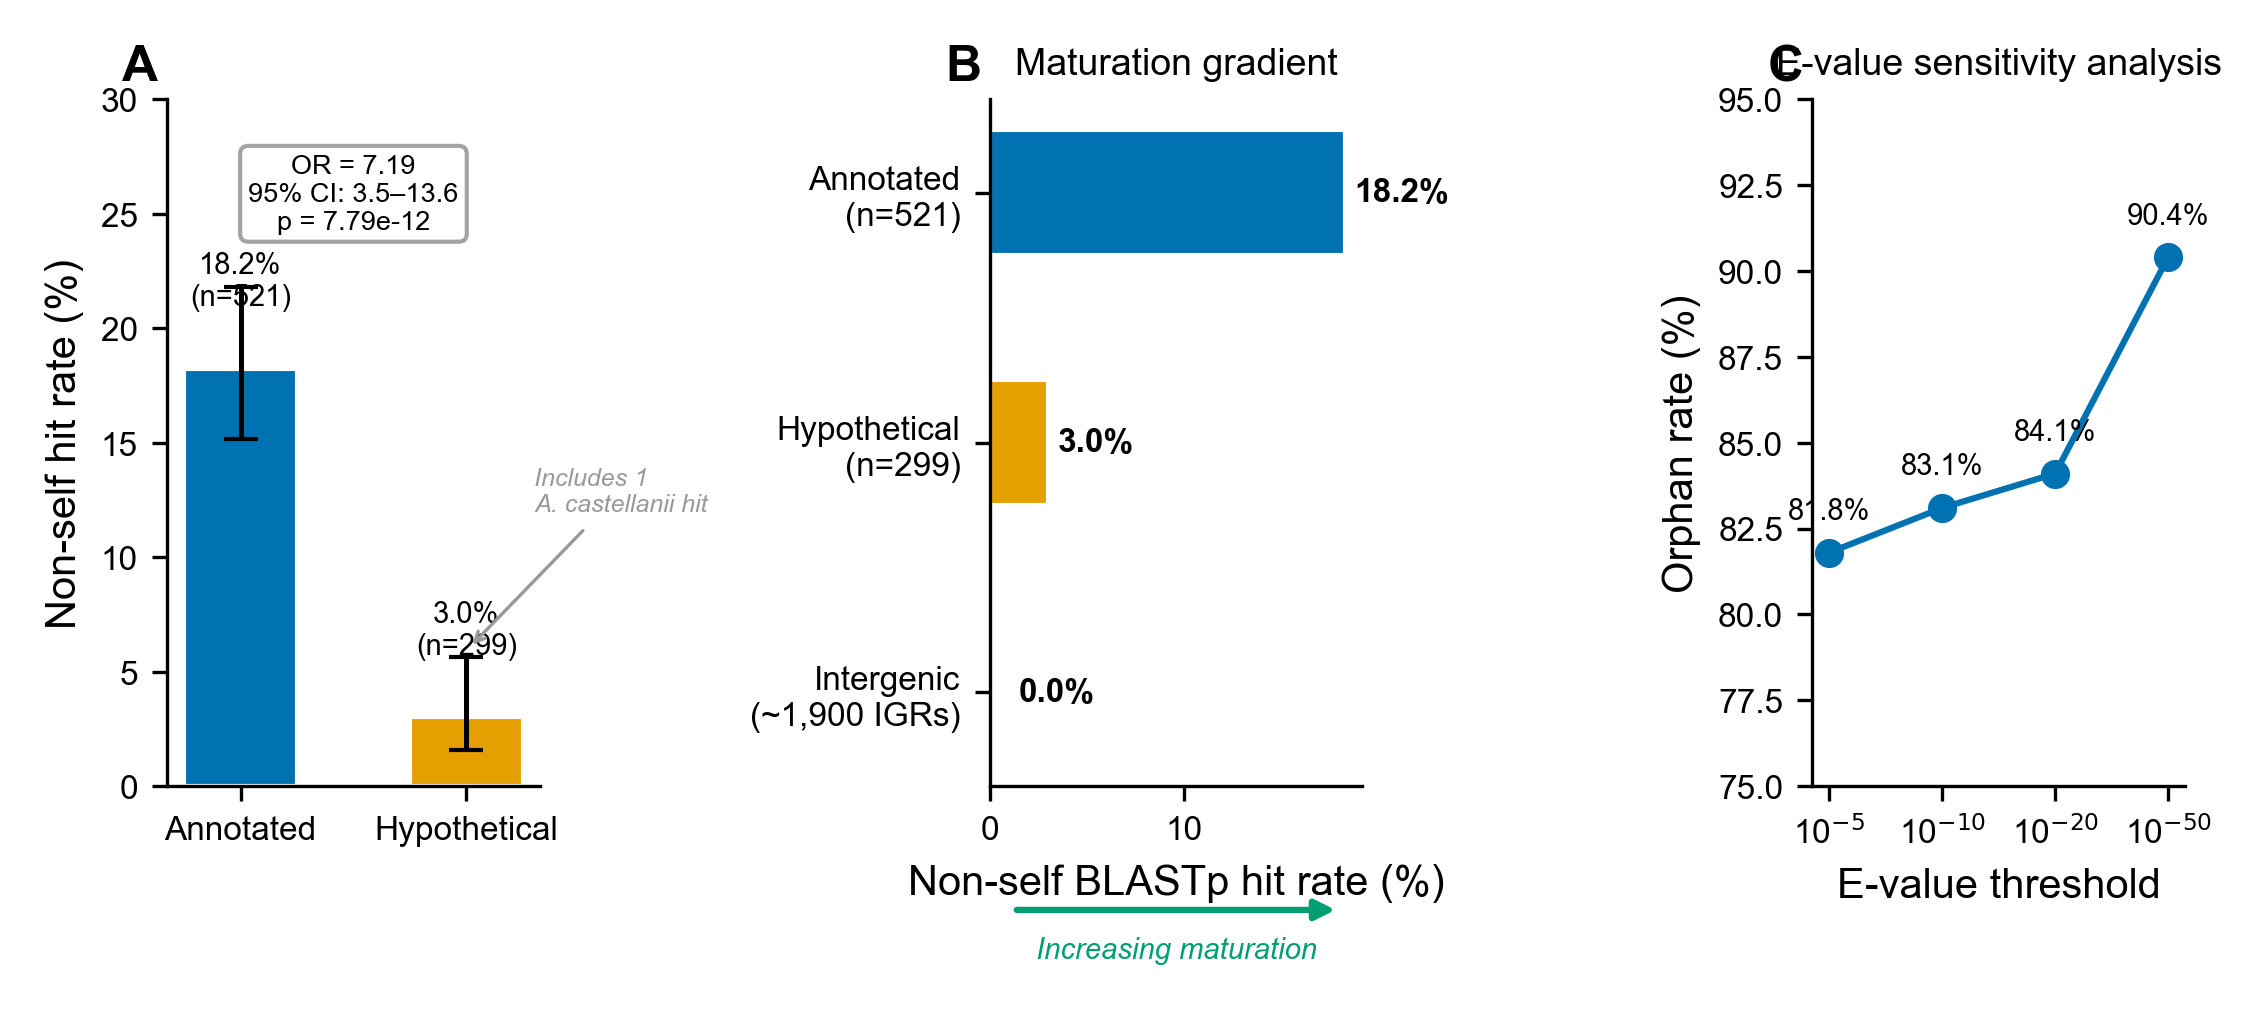
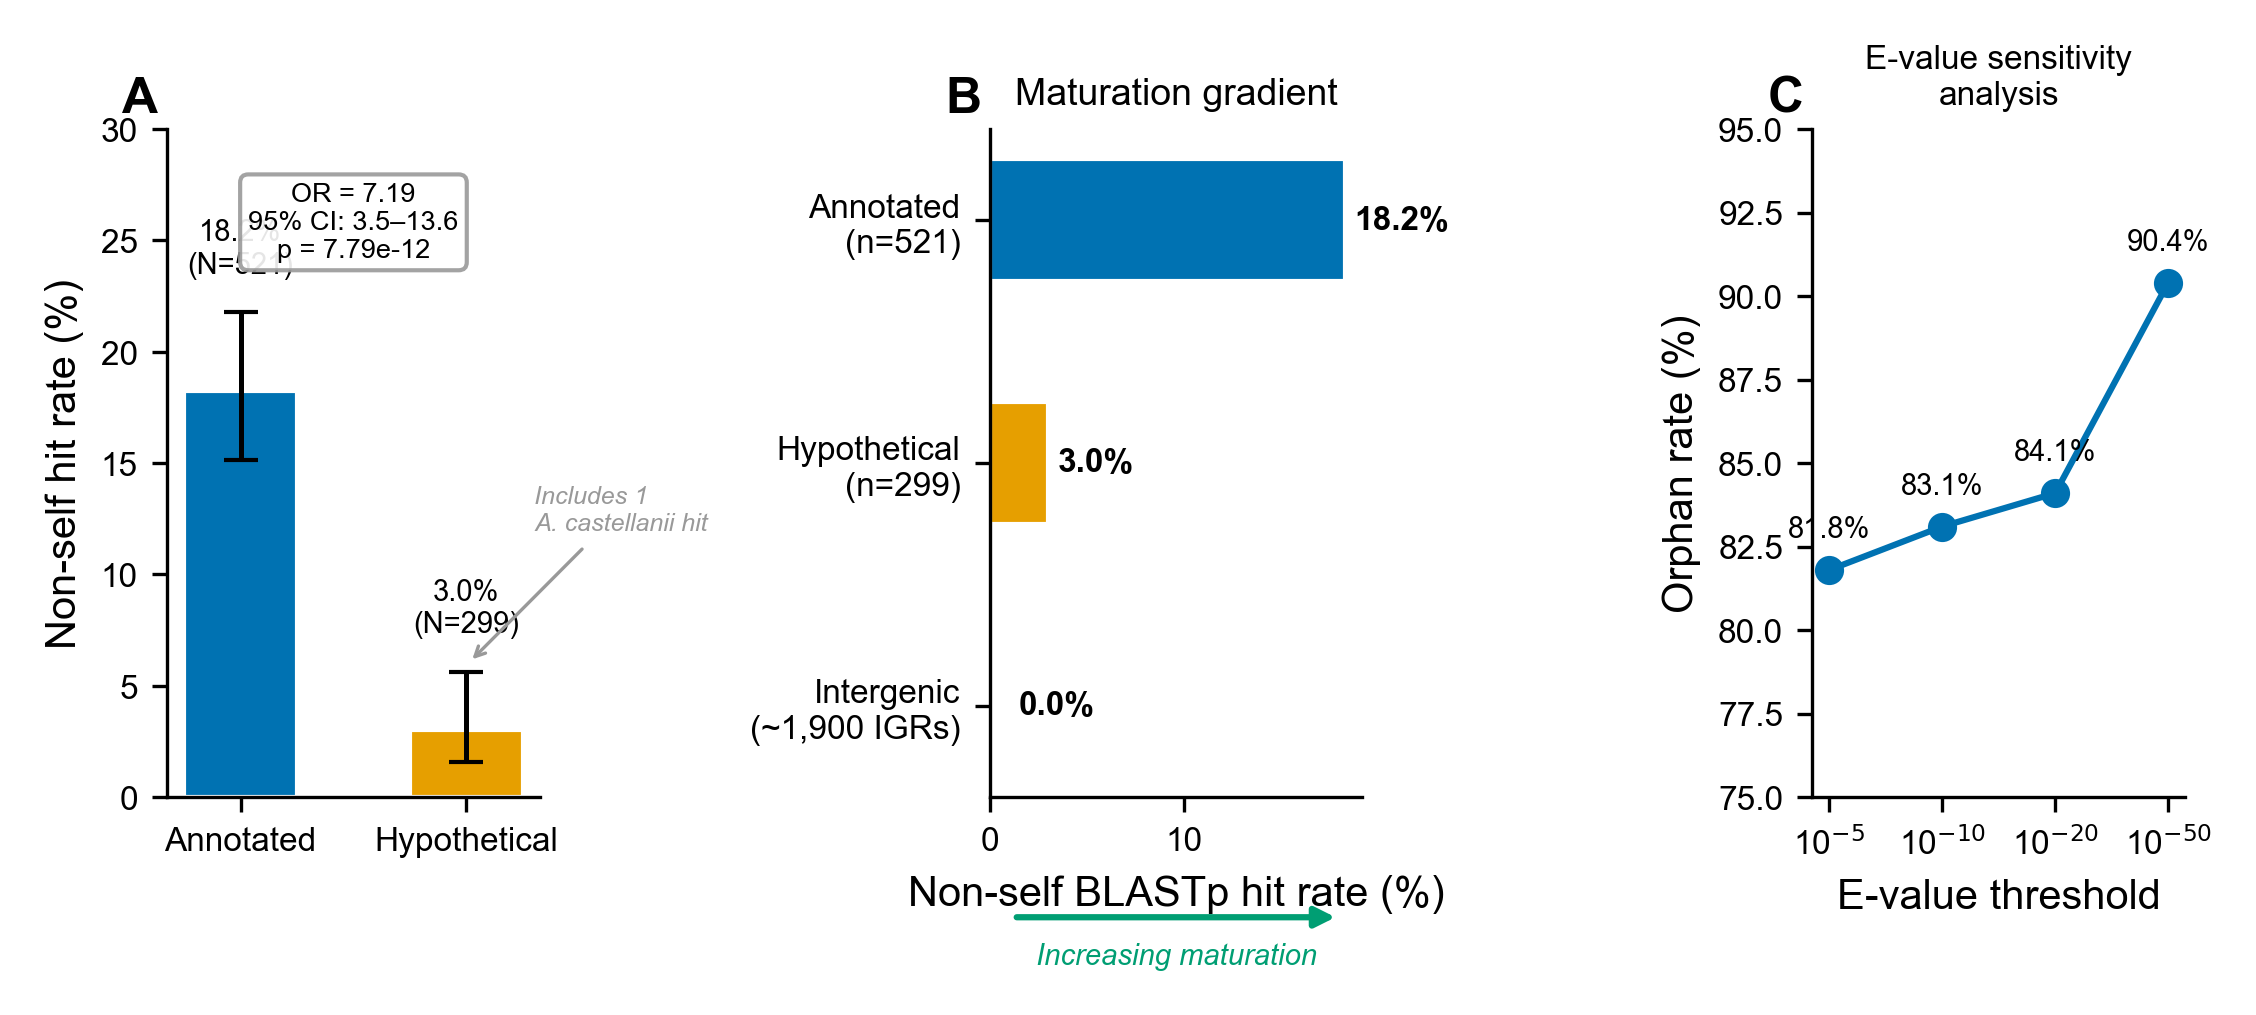
Final peer review fixes: references, affiliation, formatting, Figure 4
- Attribute 92.5% ORFan claim to Philippe et al. in Abstract
- Add author affiliation (Bradford Genomics, San Diego, CA, USA)
- Fix "connection failures" to "failed queries due to server timeouts"
- Add Moniruzzaman et al. 2020 (Nature) and Aylward et al. 2021 references
- Correct Moniruzzaman reference to endogenization paper (Nature 588:141-145)
- Remove all em-dashes from manuscript and supplementary materials
- Fix Figure 4 Panel A label overlap with error bar whiskers
- Fix Figure 4 Panel C title overlap with panel label
- Add technical walkthrough document for statisticians
- Add .docx submission files (manuscript, supplementary, cover letter)

diff --git a/scripts/generate_manuscript_figures.py b/scripts/generate_manuscript_figures.py
@@ -624,9 +624,10 @@ def figure4():
                   edgecolor="white", width=0.5,
                   yerr=[yerr_low, yerr_high],
                   capsize=4, error_kw=dict(lw=1.2, color="black"))
-    for bar, r, n in zip(bars, rates, ns):
-        ax.text(bar.get_x() + bar.get_width() / 2, bar.get_height() + 2.5,
-                f"{r:.1f}%\n(n={n})", ha="center", va="bottom", fontsize=7)
+    for bar, r, n, ye_hi in zip(bars, rates, ns, yerr_high):
+        label_y = bar.get_height() + ye_hi + 1.5
+        ax.text(bar.get_x() + bar.get_width() / 2, label_y,
+                f"{r:.1f}%\n(N={n})", ha="center", va="bottom", fontsize=7)
 
     ax.set_ylabel("Non-self hit rate (%)")
     ax.set_ylim(0, 30)
@@ -694,7 +695,7 @@ def figure4():
                        fontsize=8)
     ax.set_xlabel("E-value threshold")
     ax.set_ylabel("Orphan rate (%)")
-    ax.set_title("E-value sensitivity analysis", fontsize=9)
+    ax.set_title("E-value sensitivity\nanalysis", fontsize=8)
     ax.set_ylim(75, 95)
 
     fig.tight_layout()

diff --git a/docs/technical_walkthrough_for_statisticians.md b/docs/technical_walkthrough_for_statisticians.md
@@ -1,0 +1,275 @@
+# Technical Walkthrough: Pandoravirus de novo Gene Birth Analysis
+## For statistically sophisticated readers with limited genomics background
+
+**Eddie Bradford — Pandoravirus salinus GBE Submission, Draft 6**
+
+---
+
+## Orientation: What is this paper actually about?
+
+Before diving into methods, it helps to understand what we are trying to explain and why it is puzzling.
+
+**The organism.** *Pandoravirus salinus* is a giant virus — a virus with a genome so large (2.47 megabases, roughly half the size of a minimal bacterial genome) that it encodes ~1,430 proteins. Most viruses encode a few dozen. This one is an outlier.
+
+**The puzzle.** 92.5% of its proteins are "ORFans" — they have no detectable relatives anywhere in the known biological world. This is extraordinary. For comparison, even highly unusual bacteria typically have 80–90% of their genes with detectable homologs somewhere. Where did all these unique genes come from?
+
+**The proposed answer.** The leading hypothesis is *de novo gene birth*: the virus creates new genes from scratch, out of what was previously non-coding "junk" DNA in between existing genes. A stretch of random-looking intergenic sequence gains the properties of a functional gene over evolutionary time.
+
+**The mechanistic gap this paper addresses.** Even if you accept de novo gene birth as the answer, a puzzle remains: for a new gene to be useful, it needs to be *expressed* — the cell's machinery needs to be told "start reading here, stop reading there" (these signals are called promoters and terminators). How does a piece of junk DNA get expressed if it is far from any existing regulatory signal? This paper's central finding is that the answer is already everywhere: Pandoravirus maintains regulatory signals distributed throughout its entire non-coding genome, so any stretch of sequence that randomly develops coding potential is already sitting next to a promoter/terminator and can immediately be expressed.
+
+---
+
+## Biological vocabulary, translated for statisticians
+
+| Biology term | Statistical/analytical equivalent |
+|---|---|
+| **Gene** | A coded sequence that produces a protein; the "unit of analysis" |
+| **ORFan / orphan gene** | A gene with zero matches in external databases; a complete outlier in the homology space |
+| **Intergenic region (IGR)** | The sequence *between* genes — non-coding DNA, the substrate from which new genes emerge |
+| **Promoter / terminator** | Sequence signals that tell the cell where to start/stop reading a gene — like delimiters in a file |
+| **Codon** | A 3-letter DNA code word that specifies one amino acid; there are 64 codons but only 20 amino acids, so most amino acids are encoded by multiple synonymous codons |
+| **GC content** | The fraction of the DNA letters that are G or C (vs A or T) — the primary compositional axis |
+| **Annotated gene** | A gene with a known function or recognized protein domain, validated by bioinformatics databases |
+| **Hypothetical gene** | A gene-like region that has no recognized function — an ORF (open reading frame) with no known relatives |
+| **Proto-gene** | A gene-like sequence at an intermediate stage of maturation — not fully gene-like, not fully random |
+| **BLASTp** | A database search algorithm: for a given protein sequence, find the most similar sequences across all known biology. Returns hits ranked by E-value. |
+| **NCLDV** | Nucleocytoviricota — the taxonomic group of giant viruses; Pandoravirus and Mimivirus are both NCLDVs |
+
+---
+
+## The data structure
+
+Everything starts with the genome sequence of *P. salinus*: a single circular DNA molecule of 2,473,870 base pairs. This was stored in a PostgreSQL database with 22 tables tracking:
+
+- Position-indexed sequence (every nucleotide, position-labeled)
+- Gene annotations (start, end, strand, protein sequence, function label)
+- Intergenic regions (the gaps between genes)
+- Derived analytical tables (codon usage statistics, k-mer frequencies, etc.)
+
+The genome was analyzed alongside three comparison genomes chosen to span the size spectrum: bacteriophage PhiX174 (5,386 bp), bacteriophage Lambda (48,502 bp), and Mimivirus (1,181,549 bp). For cross-lineage comparison, four additional giant virus genomes were added: *Pandoravirus dulcis*, *Pithovirus sibericum*, *Mollivirus sibericum*, and Mimivirus.
+
+The analytical unit is usually the individual gene: 1,430 annotated CDS in *P. salinus*, giving a comfortable sample size for gene-level statistics. For sequence-level analyses, the unit is typically a k-mer (a sequence window of length k) counted across the whole genome.
+
+---
+
+## Module 1: Null model calibration — separating signal from base-composition noise
+
+**Why this matters first.** *P. salinus* has 62% GC content — meaning 62% of its DNA letters are G or C. This extreme base composition creates a massive statistical nuisance: almost any sequence-level enrichment or depletion you might find could just be an artifact of the unusual letter frequencies, not a real biological signal. The very first analytical step was to build null models that bake in this base composition, so that downstream signals are genuine.
+
+**Markov-1 null model.** We used a Markov-1 (first-order) model — a model that preserves observed *dinucleotide* frequencies (every pair of adjacent letters) rather than just individual letter frequencies. This is one step more realistic than a simple Bernoulli model of independent letters, because consecutive nucleotides in real genomes are not independent.
+
+For each k-mer of interest, we computed: observed count vs expected count under the Markov-1 model, and a z-score. This immediately reveals two extreme patterns:
+
+- **Poly-A/T hexamers (AAAAAA / TTTTTT): 15-fold enriched** (z > +100). These runs are dramatically over-represented relative to even a GC-matched null — they exist because selection maintains them, not because the base composition produces them by chance.
+
+- **AGCT tetranucleotide: 1,500-fold depleted** (z = −82). This specific 4-letter sequence is almost completely absent from the genome. With only 4 copies across 2.47 million base pairs, this is one of the most extreme single-sequence depletion patterns in known biology.
+
+**The effect-size filter.** Here is the key methodological contribution: in a genome of 2.47 Mb, statistical power is so high that 92.6% of all 4-mers pass z > 3 (α ≈ 0.001) by raw significance alone. But a z-score of 3.2 on a 3-fold-enriched 4-mer is not the same as a z-score of 82 on a 1,500-fold-depleted 4-mer. Filtering to |O/E| > 2 (at least a 2-fold deviation from null expectation) reduces the significant fraction from 92.6% to 10.5% — meaning 88.6% of nominally significant signals lack biologically meaningful effect sizes. The paper consistently applies this effect-size discipline throughout, distinguishing statistical significance from practical significance.
+
+---
+
+## Module 2: Codon usage analysis — measuring translational adaptation
+
+**Background.** Every amino acid in a protein is specified by a 3-letter codon. Most amino acids have 2–6 synonymous codons that encode the exact same thing. Different organisms preferentially use different synonymous codons — this "codon bias" reflects adaptation to the organism's translation machinery (the machinery that reads DNA and makes proteins). A gene that is well-adapted to its host's translation machinery uses the host's preferred codons; a newly-born gene that hasn't been "optimized" by selection yet will use more random codon choices.
+
+Three metrics were computed per gene:
+
+**GC3 (wobble position GC content).** The third position of each codon is usually "silent" — changing it doesn't change the amino acid. This position is called the "wobble" position. The GC content at wobble positions (GC3) is a clean readout of compositional pressure on synonymous sites, relatively free from amino-acid-level selection.
+
+**CAI (Codon Adaptation Index).** A 0-to-1 score measuring how well a gene's codon choices match the codon frequencies of the host organism (*Acanthamoeba castellanii*, the amoeba that Pandoravirus infects). CAI = 1 means every codon is the host-preferred choice; CAI = 0 means perfect anti-adaptation.
+
+**RSCU distance.** Relative Synonymous Codon Usage distance — a measure of how far a gene's codon choices are from the genome-average preferred pattern. A lower RSCU distance means more genome-adapted codon usage.
+
+**The neutrality plot.** A standard diagnostic: regress GC3 (wobble positions, neutral) against GC12 (positions 1 and 2, under selection). Under strict neutrality (no selection on codon choice), the slope should be 1.0. In *P. salinus*, the slope is β = 0.118 (95% CI: 0.089–0.146, p = 5.9 × 10⁻¹⁶). This is far below 1.0, indicating strong translational selection — codon positions under selection do not respond to changes in neutral composition the way they would if evolution were neutral. The R² of 0.045 is low, which is actually biologically informative: it means GC12 barely changes at all with GC3, consistent with very strong purifying selection at constrained positions.
+
+**Key finding.** ORFan genes (those with no external homologs) are compositionally *indistinguishable* from annotated genes by every codon metric: GC3 difference = +0.015, CAI difference = +0.008, upstream 6-mer cosine similarity = 0.9824. This rules out recent horizontal gene transfer from external sources — a foreign gene would have compositional signatures matching its source organism, not the Pandoravirus genome.
+
+---
+
+## Module 3: The five-tier proto-gene continuum — an ordinal classification of gene maturity
+
+This is the conceptual centerpiece of the paper.
+
+**The classification scheme.** All predicted ORFs were sorted into five tiers based on two independent evidence sources: (1) whether the GenBank annotation database recognizes the sequence as a gene, and (2) whether the Prodigal *ab initio* gene predictor independently identifies it. Think of this as a 2×2 table that generates five groups based on the strength and independence of the evidence:
+
+| Tier | Definition | n | Mean length | Mean GC |
+|------|-----------|---|-------------|---------|
+| T1 | Annotated + Prodigal confirmed | 516 | 1,452 bp | 0.650 |
+| T2 | Hypothetical (no function) + Prodigal confirmed | 784 | 1,082 bp | 0.648 |
+| T3 | GenBank-only (Prodigal missed it) | 130 | 555 bp | 0.615 |
+| T4 | Prodigal high-confidence only | 335 | 501 bp | 0.560 |
+| T5 | Prodigal low-confidence only | 527 | 216 bp | 0.547 |
+
+The intergenic background (not yet a gene) sits at GC = 0.539. T5 proto-genes are at GC = 0.547 — barely above the non-coding baseline.
+
+**The gradient.** GC content, gene length, GC3, and CAI all decline monotonically from T1 to T5. The Spearman ρ = −1.0 for both GC and length across the five tiers (exact one-tailed p = 0.0083 for each; Fisher combined p = 0.00073). A perfect rank correlation across five ordered groups is reassuring, but the biological significance is in the *consistency across independent measurements* — four different variables, measured by different methods, all agree on the same ordering. The probability that four independent measurements all align by chance is far lower than any single correlation alone.
+
+**The proto-gene codon signal.** The most important finding in this section: even T4 and T5 proto-genes show codon optimization significantly beyond random. Compared against length-matched random intergenic ORFs:
+- T4: RSCU distance 0.74 vs random 0.76 (6.7% displacement toward genome-optimized baseline; p = 0.020)
+- T5: RSCU distance 1.01 vs random 1.03 (3.5% displacement; p = 0.0005)
+
+This is important for two reasons. First, it means these proto-genes are not just random noise picked up by the gene predictor — they have genuine sequence structure. Second, because Prodigal's scoring algorithm uses hexamer (6-mer) log-likelihood at the gene start site rather than whole-gene codon optimization, the RSCU signal is partially independent of why Prodigal called them genes. The codon optimization must come from the sequences themselves.
+
+**Spatial distribution.** Proto-genes showed zero spatial clustering near established genes (T4 p = 0.99; T5 p = 1.0 by nearest-neighbor randomization tests). This rules out mechanisms like "regulatory spillover from adjacent genes" and supports the idea that new genes can arise anywhere in the genome.
+
+---
+
+## Module 4: Protein structure prediction — structural relationships invisible to sequence comparison
+
+**ESM-2 embeddings.** ESM-2 is a transformer-based protein language model (analogous to BERT for biological sequences) that generates a numerical embedding vector for any protein sequence. Two proteins with similar 3D structures tend to have similar embeddings, even if their sequences have diverged beyond the detection limit of sequence alignment tools.
+
+We embedded 170 representative proteins spanning all five tiers and performed hierarchical clustering in embedding space, yielding 9 structural families.
+
+**Null calibration.** A critical step: we generated composition-matched random protein sequences (preserving amino acid frequencies but randomizing order) and embedded those too. Within-family similarity among real proteins: 0.533. Among random proteins: 0.368. Cohen's d = 1.45 — a large effect size confirming the structural families are real and not artifacts of amino acid composition.
+
+**Key finding.** 23 ORFan singletons — proteins with no detectable sequence homologs anywhere — clustered structurally with annotated domain-containing proteins. Their sequences have diverged beyond sequence-level detection, but their 3D structural organization is still recognizable. This is evidence for deep evolutionary relationships invisible to BLASTp.
+
+**Caveat.** 41% of the variance on the first principal component correlates with GC content, indicating a partial compositional confound in the embeddings. We acknowledge this but argue the null calibration (which uses composition-matched controls) accounts for it.
+
+---
+
+## Module 5: The distributed AT regulatory system — the paper's central discovery
+
+**Background on regulatory signals.** In biology, genes are not automatically expressed — the cell needs to be told where each gene starts and ends. Regulatory sequences called *promoters* (at gene starts) and *terminators* (at gene ends) serve this function. In most viruses, regulatory signals are concentrated near existing genes. The question for de novo gene birth is: how can a new gene in the middle of an intergenic region be expressed if it is far from any existing regulatory element?
+
+**The signal.** We computed AT content across aligned gene boundaries (a "meta-gene" profile) — averaging AT content at each position relative to the gene start and end across all 1,430 genes. The signal is striking: AT content spikes by **+10.3 percentage points** at gene starts and **+9.8 percentage points** at gene ends, relative to the flanking baseline. This is happening in a genome that is 62% GC — these AT spikes are fighting uphill against the overall base composition. By comparison, Lambda shows ±1 pp and Mimivirus shows ±2 pp.
+
+**Poly-A/T run census.** We counted all homopolymer runs of ≥ 5 bp (AAAAA, TTTTT, etc.) across the genome: 6,955 poly-A runs and 7,010 poly-T runs. Of these, **82.8–83.9% were located in intergenic regions** — far above Lambda (12–24%) and Mimivirus (16–17%). These runs are clearly concentrated outside genes.
+
+**Strand-asymmetric positioning.** This is the key regulatory evidence. In molecular biology, promoters work on specific strands (poly-A runs upstream of genes on the coding strand; poly-T runs at the gene end on the coding strand function as terminators). We applied a strand-aware classification: for each run, we asked whether its position and strand orientation were consistent with promoter function, terminator function, or neither. Among boundary-proximal runs, **74% occupied the correct regulatory position** (binomial p < 10⁻⁶ vs. the null that correct and incorrect orientations are equally likely). This is transcriptomic validation: these AT runs are behaving like real regulatory elements.
+
+**The critical finding: regulatory signals are uniformly distributed.** We compared AT runs that are close to gene boundaries ("boundary-proximal," n = 4,331) against AT runs dispersed throughout intergenic space (n = 7,309). Mean AT content difference: 1.6 percentage points. P-value: 0.105. Cohen's d < 0.05.
+
+Statistically, these two populations are essentially identical. This means that the regulatory potential is not concentrated at existing gene boundaries — it is distributed uniformly throughout the entire intergenic landscape. Any piece of intergenic DNA sits near a potential promoter and terminator. A randomly emerging ORF anywhere in the genome is already flanked by the machinery it needs to be expressed.
+
+**The proto-gene test.** T4 (upstream AT content 45.0%, p = 0.14 vs. annotated 45.9%) and T5 (46.7%, p = 0.25) proto-genes show regulatory signals statistically indistinguishable from mature annotated genes. They are born into a regulatory landscape already prepared for them.
+
+---
+
+## Module 6: Transcriptomic validation — checking the regulatory signal against experimental data
+
+This module checks the regulatory signal against real experimental data, not just computational predictions.
+
+**The external data source.** Legendre et al. (2018) performed strand-specific RNA-sequencing on Pandoravirus-infected cells — directly measuring which parts of the genome are transcribed and in which direction. Their published gene annotations incorporated this experimental data.
+
+**Validation design.** We classified all 11,640 intergenic AT runs as either "strand-consistent with a regulatory role at the nearest gene boundary" or "strand-inconsistent." The classification requires correct strand orientation for both the run type (poly-A vs. poly-T) and its position (upstream vs. downstream of the nearest gene). 74% of boundary-associated runs passed this strict strand-aware test — far above the 50% expected if orientation were random (binomial p < 10⁻⁶).
+
+**The hairpin comparison.** Legendre et al. (2018) proposed that palindromic RNA hairpin structures (not poly-A/T runs) are the primary termination signal, claiming ~70% of transcript ends contain hairpins. We tested this: using a strict palindrome detection algorithm (stem ≥ 6 bp, exact complementarity), observed hairpin fraction 11.6% vs. null expectation 9.7% (z = 3.6, statistically significant but only 2 pp above null). The discrepancy with Legendre et al.'s 70% likely reflects their use of energy-based RNA folding (RNAfold), which detects thermodynamically favorable structures rather than exact palindromes. Conclusion: the poly-A/T system is a real and independent termination mechanism, not just a secondary correlate of hairpin structures.
+
+---
+
+## Module 7: BLASTp homology analysis — measuring evolutionary age through external similarity
+
+**What BLASTp does.** Given a protein sequence, BLASTp searches a database of essentially all known proteins (~1 billion sequences in the NCBI nr database) and finds the most similar matches using a local alignment algorithm. Results are ranked by E-value — the expected number of matches this good by chance in a database this size. A match with E-value 10⁻²⁰ is extremely unlikely to be chance; a match with E-value 0.1 is probably noise.
+
+Our threshold: E-value < 10⁻⁵. Hits only to other Pandoravirus strains are classified as "self" (the gene is a lineage-specific orphan). Hits to anything else (any other organism) are classified as "non-self."
+
+**The annotated gene analysis.** 521 of 528 annotated genes were successfully queried (7 errors). Of 521 successful queries:
+- 426 (81.8%): orphans — hits only to other Pandoravirus strains
+- 95 (18.2%): non-self hits — at least one match to another organism
+
+The 95 non-self hits show a striking taxonomic pattern: 29.5% marine algae, 25.3% other giant viruses, 13.7% Amoebozoa (the host lineage), 11.6% bacteria, 11.6% insects. The marine algae hits reflect shared ecological habitat rather than phylogenetic proximity — Pandoravirus infects marine coastal amoebae that share habitat with marine algae. The insect hits (all ankyrin and F-box domain proteins in aphid genomes) likely reflect bacterial mobile elements (Wolbachia endosymbionts) rather than direct virus-to-insect transfer.
+
+**The annotated vs. hypothetical comparison.** This is the key Fisher's exact test in the paper. We compared non-self hit rates between annotated genes (those with recognized protein domains) and hypothetical genes (ORFs with no recognized function):
+
+|  | Non-self hits | Orphans | Total |
+|--|--|--|--|
+| Annotated | 95 | 426 | 521 |
+| Hypothetical | 9 | 290 | 299 |
+
+Fisher's exact test: OR = 7.19, 95% CI: 3.5–13.6, p = 7.79 × 10⁻¹². Annotated genes are 7.2× more likely to have external relatives than hypothetical genes. This makes intuitive sense under the maturation model: annotated genes are older (have had more time to accumulate detectable homologs in related organisms), while hypothetical genes are younger (recently born, not yet diverged to recognizable relatives in other lineages).
+
+**E-value sensitivity analysis.** A methodological concern: what if this result is sensitive to the E-value cutoff? We repeated the annotated gene analysis at 10⁻⁵, 10⁻¹⁰, 10⁻²⁰, and 10⁻⁵⁰. Orphan rates: 81.8%, 83.1%, 84.1%, 90.4%. The conclusion is robust — if anything, tighter thresholds make orphan rates *higher*, confirming that the non-self hits are not borderline noise.
+
+**Spatial enrichment.** Non-self hits (older genes) are enriched in the "native zone" (a genomic region from 1.3–2.0 Mb that shows hallmarks of being an older, better-annotated region): 45/95 hits fell here (OR = 1.94, Fisher's exact p = 0.004). This is spatial evidence for gene aging — the oldest genes in the genome cluster in the oldest genomic region.
+
+**The phylogenetic distance gradient.** Hypothetical genes with non-self hits connect exclusively to phylogenetically close organisms (giant viruses, Amoebozoa). Annotated genes connect to a much broader range (marine algae, insects, diverse bacteria). Older genes have had more time to diverge and spread connections across more distantly related organisms — this is an additional prediction of the maturation model that the data confirm.
+
+**P. dulcis exhaustive BLASTp.** We ran the same analysis on all 319 valid annotated + 741 valid hypothetical proteins of *P. dulcis* (the sister species), an exhaustive run with no subsampling. Results: 94.7% annotated orphan rate and 98.4% hypothetical orphan rate. The annotated vs. hypothetical contrast holds (OR = 3.42, p = 1.51 × 10⁻³). The *P. dulcis* annotated orphan rate (94.7%) is significantly *higher* than *P. salinus* (81.8%; OR = 0.253, p = 2.86 × 10⁻⁸), suggesting *P. dulcis* has either a younger or more lineage-isolated gene complement. The hypothetical orphan rates (98.4% vs. 97.0%) are indistinguishable — the upper bound on orphan fraction is a conserved genus-level property.
+
+---
+
+## Module 8: Gene family detection — adaptive GC-normalized threshold
+
+**The problem with fixed thresholds.** A standard method for identifying duplicate genes is to compute pairwise protein sequence similarity and cluster genes above some threshold. In a 62% GC genome, protein amino acid composition is skewed toward G/C-coded amino acids (Ala, Gly, Pro, Arg), which inflates pairwise similarity among *unrelated* proteins just because they have similar letter frequencies. In an AT-rich genome like Mimivirus (28% GC), the bias runs the other direction.
+
+Using a fixed threshold of cosine similarity > 0.95 on 3-mer amino acid frequencies: Mimivirus null distribution has a mean of 0.9593, meaning *random unrelated proteins* score above 0.95. The fixed threshold classifies essentially all Mimivirus protein pairs as similar — a catastrophic false positive rate.
+
+**The adaptive threshold.** For each genome independently, we generated 5,000 pairs of random sequences with the genome's actual base composition and gene length distribution, computed pairwise 3-mer cosine similarities, and set the clustering threshold at the 99th percentile of this null distribution. This ensures a consistent ~1% false-positive rate across all genomes regardless of base composition.
+
+**Results.** Under adaptive thresholds:
+- *P. salinus*: 64.1% singletons (no similar partner found)
+- *P. dulcis*: 68.7%
+- Mimivirus: 88.9% (vs. the artifact-driven 9.5% under the fixed threshold)
+- Pithovirus: 90.4%
+- Mollivirus: 81.6%
+
+All five giant virus genomes are singleton-dominated — gene duplication is not the primary engine of genome expansion. Duplication is a minor contributor; de novo origin is the dominant mode.
+
+**Sensitivity analysis.** Repeating at the 95th and 99.5th percentile thresholds rather than the 99th: singleton rates shift by ~2–4 percentage points across all genomes. The qualitative conclusion — singleton-dominated proteomes — is robust.
+
+---
+
+## Module 9: Cross-NCLDV comparative analysis
+
+**Design.** We applied Modules 2–7 to all five NCLDV genomes (spanning 28–64% GC, 610 kb to 2.5 Mb, four virus families) and looked for which patterns are consistently conserved vs. which are lineage-specific.
+
+**Three universally conserved patterns:**
+
+1. **Strand balance near 50%.** Four of five genomes have 48.8–51.3% of genes on the plus strand. *Pithovirus* is the outlier at 44.3% (approximately 2.5 standard deviations from 50% given its gene count), possibly reflecting replication-associated strand asymmetry. The near-perfect strand balance in the other four is consistent with no strong directional pressure on gene orientation.
+
+2. **Translational selection toward host codon usage.** Neutrality plot slopes range from 0.067 to 0.173 (all well below the 1.0 expected under neutrality) for four of five genomes, indicating selection is pushing codons toward host-optimized usage in all cases. *Mollivirus* is an anomaly with a negative slope (−0.146), meaning GC3 and GC12 move in opposite directions — an unusual pattern whose cause is unclear (possibly annotation quality or genuine unusual selection).
+
+3. **Singleton-dominated proteomes.** Under adaptive thresholds, 64–91% singletons across all five genomes. De novo gene birth, not duplication, is the dominant growth strategy.
+
+**The maturation direction reversal — the strongest cross-genome finding.** In all four GC-rich genomes (*P. salinus*, *P. dulcis*, Mollivirus, Pithovirus), annotated genes have *higher* GC3 and CAI than hypothetical genes — maturation is driving codon usage toward the high-GC genome preference. In Mimivirus (28% GC), the direction *reverses*: annotated genes have *lower* GC3 (Δ = −0.024, Mann-Whitney p = 1.09 × 10⁻⁹, Cohen's d = −0.439) and lower CAI (Δ = −0.012, p = 2.30 × 10⁻¹³, d = −0.467) than hypothetical genes. This is exactly what the maturation model predicts: older genes are more adapted to *host* codon preferences. In a high-GC host, host-adapted = more GC. In a low-GC host, host-adapted = more AT. The reversal is a genome-composition-independent confirmation of the model.
+
+If maturation didn't drive toward host adaptation, if instead genes randomly drifted compositionally, you would not expect systematic reversal based on genome GC content. The reversal is a falsifiable, verified prediction.
+
+---
+
+## The four-stage maturation model — integrating everything
+
+The paper's synthesis of all findings is a proposed temporal ordering for de novo gene birth:
+
+**Stage 1: Regulatory signals (pre-existing).** Poly-A/T regulatory signals pre-exist throughout intergenic space (82.8–83.9% of runs are intergenic; boundary-proximal and dispersed runs are compositionally identical; proto-genes T4/T5 already have mature regulatory signatures). No action needed — any stretch of intergenic DNA already has promoter/terminator infrastructure.
+
+**Stage 2: Protein structure.** Proto-genes cluster with established protein structural families in embedding space (nearest-neighbor similarity test p = 0.90, meaning proto-genes are not structurally distinguishable from established genes). Structural organization emerges early, even before sequence-level recognition.
+
+**Stage 3: Codon optimization.** T4 and T5 proto-genes show statistically significant displacement toward genome-preferred codon usage relative to random ORFs (p = 0.020 and p = 0.0005). This signal is detectable in the least mature candidates, indicating selection has begun to optimize codon choices.
+
+**Stage 4: GC composition.** This is the slowest process. Proto-genes (GC = 0.547) have barely moved from the intergenic baseline (GC = 0.539) toward the coding gene average (GC = 0.650). Full compositional equilibration is the last step and likely takes the most evolutionary time.
+
+**Critical caveat.** This ordering is inferred from a **cross-sectional snapshot** — we are looking at genes at different maturation stages simultaneously, not tracking individual genes through time. This is exactly analogous to cross-sectional epidemiology vs. longitudinal studies. The cross-sectional gradient is consistent with the proposed ordering but cannot prove necessity (i.e., that Stage 2 cannot precede Stage 1 for any individual gene). A definitive test requires comparative analysis across multiple Pandoravirus strains at different evolutionary distances from each other — the longitudinal equivalent.
+
+---
+
+## What this paper is *not* claiming
+
+**It is not claiming proof of mechanism.** The paper provides computational evidence consistent with a model. The four-stage ordering is a hypothesis, not a demonstrated causal chain.
+
+**It is not claiming the regulatory signals are proven promoters/terminators.** The 74% strand-consistent positioning and the +10.3 pp AT spikes are strongly suggestive, but direct experimental confirmation (reporter assays, TSS/TTS mapping) has not been done. The transcriptomic validation uses annotation-informed GFF files, not raw read-level TSS coordinates.
+
+**The ESM-2 structural clustering is a proxy.** The model generates structural embeddings, not actual 3D protein structures. It is consistent evidence, not structural proof.
+
+**Multiple testing is acknowledged.** 12 analytical modules, many statistical tests. The paper distinguishes between four pre-specified confirmatory tests (the ones that directly test the central hypothesis) and the many exploratory comparisons. The four confirmatory tests are: (1) proto-gene codon usage vs. random ORFs, (2) the strand-aware 74% binomial test, (3) the annotated-vs-hypothetical Fisher's exact test, and (4) the two-population AT run test.
+
+---
+
+## Why this is interesting to a statistician
+
+Beyond the biology, this paper has several methodologically notable features:
+
+1. **Effect-size discipline in genomics.** The explicit rejection of 88.6% of nominally significant k-mer signals based on effect-size filters is unusual in the genomics literature, where z > 3 is often treated as sufficient. The paper makes the case that in large genomes, statistical power is not a meaningful filter.
+
+2. **Composition-aware null models.** The adaptive GC-normalized threshold for gene family detection solves a real confounding problem that invalidates a widely-used methodology in AT-rich genomes. The old Mimivirus singleton rate of 9.5% (a false-positive artifact) vs. the corrected 88.9% shows the stakes of ignoring this.
+
+3. **Cross-sectional vs. longitudinal inference.** The explicit acknowledgment that the maturation ordering is cross-sectional, and the statement that longitudinal confirmation requires comparative multi-strain tracking, reflects a statistical rigor that is often glossed over in biological papers that present cross-sectional gradients as temporal sequences.
+
+4. **Distinguishing confirmatory from exploratory tests.** The paper explicitly separates its four pre-specified confirmatory tests from the broader exploratory analysis. This is methodological transparency that is more common in clinical trials literature than genomics.
+
+5. **The biological "reversal" as a falsifiable prediction.** The codon maturation direction reversal in Mimivirus is the kind of result that is hard to obtain by chance or confounding — it requires the direction of a biological process to switch based on an independent variable (genome GC content). This is close to a natural experiment, and the result is exactly what the model predicts.
+
+---
+
+*Document prepared March 2026. All cited statistics are mapped to source computations in statistics_audit.json.*

diff --git a/docs/supplementary_materials_GBE.md b/docs/supplementary_materials_GBE.md
@@ -327,7 +327,7 @@ Eddie Bradford
 | *P. salinus* | 61.7% | 0.9467 | 0.9840 | 12 | 64.1% |
 | *P. dulcis* | 63.7% | 0.9513 | 0.9863 | 5 | 68.7% |
 
-Note: The Mimivirus fixed-threshold singleton rate (9.5% at cosine > 0.95) is a method artifact — the null mean (0.9593) exceeds the fixed threshold, classifying essentially all gene pairs as similar. The adaptive threshold corrects this. All five genomes show singleton-dominated proteomes (64–91%) under the adaptive method.
+Note: The Mimivirus fixed-threshold singleton rate (9.5% at cosine > 0.95) is a method artifact, the null mean (0.9593) exceeds the fixed threshold, classifying essentially all gene pairs as similar. The adaptive threshold corrects this. All five genomes show singleton-dominated proteomes (64–91%) under the adaptive method.
 
 ---
 
@@ -370,8 +370,8 @@ All five genomes show singleton-dominated proteomes regardless of threshold choi
 | AGCT O/E ratio | 1.27× | 0.0007× | 0× | 1.11× | 0.11× |
 | AGCT rank (of 256 4-mers) | 241 | 1 | 1 | 185 | 1 |
 | Singleton rate (adaptive) | 88.9% | 64.1% | 68.7% | 90.4% | 81.6% |
-| Annotated orphan rate | — | 81.8% | 94.7% | — | — |
-| Hypothetical orphan rate | — | 97.0% | 98.4% | — | — |
+| Annotated orphan rate |, | 81.8% | 94.7% |, |, |
+| Hypothetical orphan rate |, | 97.0% | 98.4% |, |, |
 
 †Pithovirus CAI shift not statistically significant (p = 0.850, d = 0.027); GC3 shift significant (p = 4.7×10⁻⁴, d = 0.354).
 ‡Pithovirus shows modest minus-strand bias (~2.5σ from 50%); all other four genomes are 48.8–51.3%.
@@ -395,7 +395,7 @@ BLASTp orphan rates: *P. salinus* exhaustive annotated n = 521 (4 errors); *P. d
 
 ## Repository Data File: Full BLASTp Taxonomy
 
-Complete taxonomy of all 95 non-self BLAST hits (*P. salinus* annotated genes) with organism, identity, coverage, and genomic position — available as `results/blastp_annotated.json` and `results/blastp_psalinus_annotated.json` in the repository. Representative rows shown below for reference.
+Complete taxonomy of all 95 non-self BLAST hits (*P. salinus* annotated genes) with organism, identity, coverage, and genomic position, available as `results/blastp_annotated.json` and `results/blastp_psalinus_annotated.json` in the repository. Representative rows shown below for reference.
 
 | Protein_ID | Product | Genomic_position_bp | Strand | Taxonomy_category | Top_hit_organism | Pct_identity | E_value | Query_coverage | In_native_zone |
 | --- | --- | --- | --- | --- | --- | --- | --- | --- | --- |
@@ -456,7 +456,7 @@ Complete taxonomy of all 95 non-self BLAST hits (*P. salinus* annotated genes) w
 
 ## Repository Data File: Hypothetical Gene Non-Self Hits
 
-All 9 *P. salinus* hypothetical gene non-self hits with taxonomy, identity, and native zone membership — available as `results/blastp_psalinus_hypothetical.json` in the repository. Full table shown below for reference.
+All 9 *P. salinus* hypothetical gene non-self hits with taxonomy, identity, and native zone membership, available as `results/blastp_psalinus_hypothetical.json` in the repository. Full table shown below for reference.
 
 | Protein_ID | Genomic_position_bp | Strand | Taxonomy_category | Top_hit_organism | Pct_identity | E_value | In_native_zone |
 | --- | --- | --- | --- | --- | --- | --- | --- |